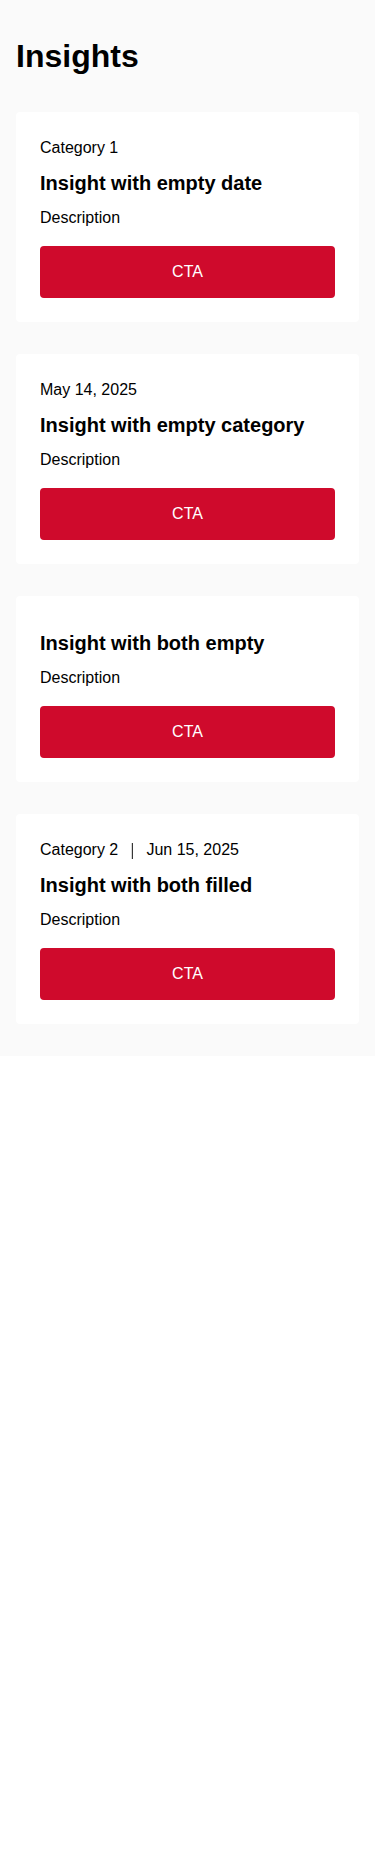
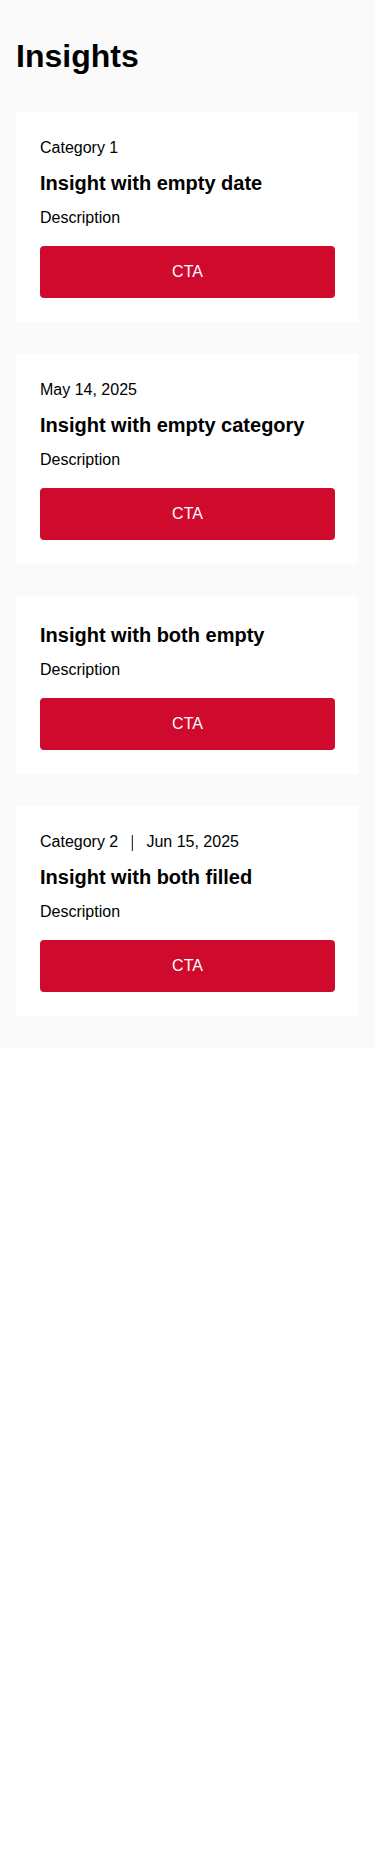
update conditional render logic + rtf logic

Changed region(s): [[0.088, 0.4338, 0.88, 0.5577], [0.088, 0.3098, 0.9093, 0.4028]]

diff --git a/packages/visual-editor/src/components/pageSections/InsightSection/InsightCard.tsx b/packages/visual-editor/src/components/pageSections/InsightSection/InsightCard.tsx
@@ -12,10 +12,11 @@ import {
   InsightStruct,
   deepMerge,
   getDefaultRTF,
+  TranslatableRichText,
+  YextEntityField,
 } from "@yext/visual-editor";
 import { ComponentConfig, Fields, PuckComponent, Slot } from "@measured/puck";
-import { useTranslation } from "react-i18next";
-import { getDisplayValue } from "../../../utils/resolveComponentData.tsx";
+import { resolveComponentData } from "../../../utils/resolveComponentData.tsx";
 import { useCardContext } from "../../../hooks/useCardContext.tsx";
 import { useGetCardSlots } from "../../../hooks/useGetCardSlots.tsx";
 import { getRandomPlaceholderImageObject } from "../../../utils/imagePlaceholders";
@@ -54,6 +55,10 @@ export const defaultInsightCardSlotData = (id?: string, index?: number) => {
       styles: {
         backgroundColor: backgroundColors.background1.value,
       } satisfies InsightCardProps["styles"],
+      conditionalRender: {
+        hasCategory: true,
+        hasPublishTime: true,
+      },
       slots: {
         ImageSlot: [
           {
@@ -198,9 +203,17 @@ export type InsightCardProps = {
     PublishTimeSlot: Slot;
     CTASlot: Slot;
   };
+
+  /** @internal */
   parentData?: {
     field: string;
     insight: InsightStruct;
+  };
+
+  /** @internal */
+  conditionalRender?: {
+    hasCategory: boolean;
+    hasPublishTime: boolean;
   };
 
   /** @internal */
@@ -234,40 +247,8 @@ const insightCardFields: Fields<InsightCardProps> = {
   },
 };
 
-// Helper component to wrap slots and show separator only if both have content
-const SlotsWithSeparator: React.FC<{
-  categorySlot: React.ReactNode;
-  dateSlot: React.ReactNode;
-}> = ({ categorySlot, dateSlot }) => {
-  const categoryRef = React.useRef<HTMLDivElement>(null);
-  const dateRef = React.useRef<HTMLDivElement>(null);
-  const [showSeparator, setShowSeparator] = React.useState(false);
-
-  React.useEffect(() => {
-    // Check if both slots have rendered content
-    const categoryHasContent =
-      categoryRef.current && categoryRef.current.textContent?.trim() !== "";
-    const dateHasContent =
-      dateRef.current && dateRef.current.textContent?.trim() !== "";
-    setShowSeparator(Boolean(categoryHasContent && dateHasContent));
-  });
-
-  return (
-    <div className="flex items-center">
-      <div ref={categoryRef} className="flex items-center">
-        {categorySlot}
-      </div>
-      {showSeparator && <span className="px-3">|</span>}
-      <div ref={dateRef} className="flex items-center">
-        {dateSlot}
-      </div>
-    </div>
-  );
-};
-
 const InsightCardComponent: PuckComponent<InsightCardProps> = (props) => {
-  const { styles, slots, puck } = props;
-  const { i18n } = useTranslation();
+  const { styles, slots, puck, conditionalRender } = props;
   const { sharedCardProps, setSharedCardProps } = useCardContext<{
     cardBackground: BackgroundStyle | undefined;
     slotStyles: Record<string, InsightCardProps["styles"]>;
@@ -371,67 +352,7 @@ const InsightCardComponent: PuckComponent<InsightCardProps> = (props) => {
     styles
   );
 
-  const getCategoryValue = () => {
-    // If not in editor (slotsData unavailable), assume slot should be shown
-    // and let the BodyText component handle its own empty state
-    if (!slotsData) {
-      return true;
-    }
-
-    const slot = slotsData?.CategorySlot?.[0];
-    if (!slot) {
-      return false;
-    }
-
-    // Check parent data (from entity)
-    if (slot.props?.parentData?.richText) {
-      const displayValue = getDisplayValue(
-        slot.props.parentData.richText,
-        i18n.language
-      );
-      return displayValue.trim() !== "";
-    }
-
-    // Check constant value (can be string or object with localized values)
-    const constantValue = slot.props?.data?.text?.constantValue;
-    if (constantValue) {
-      const displayValue = getDisplayValue(constantValue, i18n.language);
-      return displayValue.trim() !== "";
-    }
-
-    return false;
-  };
-
-  const getPublishTimeValue = () => {
-    // If not in editor (slotsData unavailable), assume slot should be shown
-    // and let the Timestamp component handle its own empty state
-    if (!slotsData) {
-      return "placeholder"; // Return non-empty value to show the slot container
-    }
-
-    const slot = slotsData?.PublishTimeSlot?.[0];
-    if (!slot) return "";
-
-    // Check parent data (from entity)
-    if (slot.props?.parentData?.date) {
-      return slot.props.parentData.date;
-    }
-
-    // Check constant value or field
-    return (
-      slot.props?.data?.date?.constantValue ||
-      slot.props?.data?.date?.field ||
-      ""
-    );
-  };
-
-  const hasCategory = getCategoryValue();
-  const hasPublishTime = Boolean(getPublishTimeValue());
-
-  // When not in editor (slotsData unavailable), we can't determine if slots will render content
-  // before they render, so we use a dynamic component that checks after render
   const isInEditor = props.puck.isEditing;
-  const canDetermineSlotContent = Boolean(slotsData);
 
   return (
     <Background
@@ -442,38 +363,28 @@ const InsightCardComponent: PuckComponent<InsightCardProps> = (props) => {
       <slots.ImageSlot style={{ height: "auto" }} allow={[]} />
       <div className="flex flex-col gap-4 p-6 flex-grow">
         <div className="flex flex-col gap-2 flex-grow">
-          {canDetermineSlotContent ? (
-            // In editor: use conditional rendering with separator based on slot state
-            (hasCategory || hasPublishTime || isInEditor) && (
-              <div className="flex items-center">
-                {(hasCategory || isInEditor) && (
-                  <div className="flex items-center">
-                    <slots.CategorySlot style={{ height: "auto" }} allow={[]} />
-                  </div>
-                )}
-                {hasCategory && hasPublishTime && (
+          {(conditionalRender?.hasCategory ||
+            conditionalRender?.hasPublishTime ||
+            isInEditor) && (
+            <div className="flex items-center">
+              {(conditionalRender?.hasCategory || isInEditor) && (
+                <div className="flex items-center">
+                  <slots.CategorySlot style={{ height: "auto" }} allow={[]} />
+                </div>
+              )}
+              {conditionalRender?.hasCategory &&
+                conditionalRender?.hasPublishTime && (
                   <span className="px-3">|</span>
                 )}
-                {(hasPublishTime || isInEditor) && (
-                  <div className="flex items-center">
-                    <slots.PublishTimeSlot
-                      style={{ height: "auto" }}
-                      allow={[]}
-                    />
-                  </div>
-                )}
-              </div>
-            )
-          ) : (
-            // On live page/tests: use dynamic separator component that checks rendered content
-            <SlotsWithSeparator
-              categorySlot={
-                <slots.CategorySlot style={{ height: "auto" }} allow={[]} />
-              }
-              dateSlot={
-                <slots.PublishTimeSlot style={{ height: "auto" }} allow={[]} />
-              }
-            />
+              {(conditionalRender?.hasPublishTime || isInEditor) && (
+                <div className="flex items-center">
+                  <slots.PublishTimeSlot
+                    style={{ height: "auto" }}
+                    allow={[]}
+                  />
+                </div>
+              )}
+            </div>
           )}
           <slots.TitleSlot style={{ height: "auto" }} allow={[]} />
           <slots.DescriptionSlot style={{ height: "auto" }} allow={[]} />
@@ -503,7 +414,14 @@ export const InsightCard: ComponentConfig<{ props: InsightCardProps }> = {
       CTASlot: [],
     },
   },
-  resolveData: (data) => {
+  resolveData: (data, params) => {
+    const streamDocument = params.metadata.streamDocument;
+    const locale = streamDocument?.locale ?? "en";
+
+    if (!streamDocument || !locale) {
+      return data;
+    }
+
     if (data.props.parentData) {
       const { field, insight } = data.props.parentData;
 
@@ -536,6 +454,17 @@ export const InsightCard: ComponentConfig<{ props: InsightCardProps }> = {
         field: `${field}.cta`,
         cta: insight.cta,
       };
+
+      const category = resolveComponentData(
+        insight.category as TranslatableRichText,
+        locale,
+        streamDocument
+      );
+
+      data.props.conditionalRender = {
+        hasCategory: !!category,
+        hasPublishTime: !!insight.publishTime,
+      };
     } else {
       data.props.slots.ImageSlot[0].props.parentData = undefined;
       data.props.slots.TitleSlot[0].props.parentData = undefined;
@@ -543,6 +472,24 @@ export const InsightCard: ComponentConfig<{ props: InsightCardProps }> = {
       data.props.slots.DescriptionSlot[0].props.parentData = undefined;
       data.props.slots.PublishTimeSlot[0].props.parentData = undefined;
       data.props.slots.CTASlot[0].props.parentData = undefined;
+
+      const category = resolveComponentData(
+        data.props.slots.CategorySlot[0]?.props.data
+          .text as YextEntityField<TranslatableRichText>,
+        locale,
+        streamDocument
+      );
+
+      const publishTime = resolveComponentData(
+        data.props.slots.PublishTimeSlot[0]?.props.data.date,
+        locale,
+        streamDocument
+      );
+
+      data.props.conditionalRender = {
+        hasCategory: !!category,
+        hasPublishTime: !!publishTime,
+      };
     }
 
     return data;

diff --git a/packages/visual-editor/src/utils/resolveComponentData.tsx b/packages/visual-editor/src/utils/resolveComponentData.tsx
@@ -194,6 +194,9 @@ function toStringOrElement(
   value: string | RichText
 ): string | React.ReactElement {
   if (isRichText(value)) {
+    if (value.html === "" && value.json === "") {
+      return "";
+    }
     return <MaybeRTF data={value} />;
   }
   return value;
